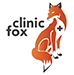
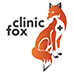
image fix

diff --git a/signature.html b/signature.html
@@ -69,17 +69,17 @@ Position
 </tr>
 <tr>
 <td style="font-size:10pt;">
-<span style="font-weight:700;">t: </span><a style="text-decoration:none; color:#000" href="tel:1-877-387-8114">1 877-387-8114 (office)</a>
+<span style="font-weight:700;">t: </span><a style="text-decoration:none !important; color:#000 !important">1 877-387-8114 (office)</a>
 </td>
 </tr>
 <tr>
 <td style="font-size:10pt;">
-<span style="font-weight:700;">t: </span><a style="text-decoration:none; color:#000">x xxx-xxx-xxxx (direct)</a>
+<span style="font-weight:700;">t: </span><a style="text-decoration:none !important; color:#000 !important">0 000-000-0000 (direct)</a>
 </td>
 </tr>
 <tr>
 <td style="font-size:10pt; padding-bottom:1em;">
-<span style="font-weight:700;">t: </span>1-604-229-0023 (fax)
+<span style="font-weight:700;">t: </span><a style="text-decoration:none !imporant; color:#000 !important">1 604-229-0023 (fax)</a>
 </td>
 </tr>
 <tr>
@@ -98,54 +98,57 @@ Lumioso Technology Services Ltd.
   		<table cellpadding="10px" valign="middle" cellspacing="0" border="0" align="left" width="375">
 		<![endif]-->
 			<tr height="74">
+				<td width="25%" style="max-width:74px;"><a href="http://lumioso.com">
 			<!--[if gte mso 9]>
 				<td width="74">
 					<![endif]-->
-				<td width="25%" style="max-width:74px;"><a href="http://lumioso.com">
+			<img class="image_fix" style="max-width:74px; line-height:74px; text-align:center;" src="img/lumioso.png" width="100%" alt="Lumioso" title="Lumioso" height="100%" />
 				<!--[if gte mso 9]>
-  				<img class="image_fix" src="img/lumioso.png" width="74" alt="Lumioso" title="Lumioso" height="26" />
+  				<img class="image_fix" src="img/lumioso.png" width="74" alt="Lumioso" title="Lumioso" height="74" />
 				<![endif]-->
-				<img class="image_fix" style="max-width:74px;" src="img/lumioso.png" width="100%" alt="Lumioso" title="Lumioso" height="26" />
 				</a>
 				</td>
 				<!--[if gte mso 9]>
 				</td>
 				<![endif]-->
+				<td width="25%">
 				<!--[if gte mso 9]>
 				<td width="74">
 					<![endif]-->
-				<td width="25%">
 				<a href="http://ontwyne.com/">
+				
+				<img class="image_fix" src="img/twyne.png" style="max-width:74px; line-height:74px; text-align:center;" width="100%" height="100%" alt="Twyne" title="Twyne" />
 				<!--[if gte mso 9]>
   				<img class="image_fix" src="img/twyne.png" width="74" alt="Twyne" title="Twyne" height="74" />
-				<![endif]-->
-				<img class="image_fix" src="img/twyne.png" style="max-width:74px;" width="100%" height="100%" alt="Twyne" title="Twyne" /></a>
+				<![endif]--></a>
 				</td>
 				<!--[if gte mso 9]>
 					</td>
 					<![endif]-->
+				<td width="25%">
 				<!--[if gte mso 9]>
 				<td width="74">
 					<![endif]-->
-				<td width="25%">
 				<a href="http://yellowhat.ca/">
+				
+				<img class="image_fix" src="img/yellow-hat.png" style="max-width:74px; line-height:30px; text-align:center;" width="100%" height="100%" alt="Yellow Hat" title="Yellow Hat" />
 				<!--[if gte mso 9]>
-  				<img class="image_fix" src="img/yellow-hat.png" width="74" alt="Yellow Hat" title="Yellow Hat" height="30" />
-				<![endif]-->
-				<img class="image_fix" src="img/yellow-hat.png" style="max-width:74px;" width="100%" height="30" alt="Yellow Hat" title="Yellow Hat" /></a>
+  				<img class="image_fix" src="img/yellow-hat.png" width="74" alt="Yellow Hat" title="Yellow Hat" height="74" />
+				<![endif]--></a>
 				</td>
 				<!--[if gte mso 9]>
 					</td>
 					<![endif]-->
+				<td width="25%">
 				<!--[if gte mso 9]>
 				<td width="74">
 					<![endif]-->
-				<td width="25%">
 				<a href="http://clinicfox.com/">
+				
+				<img class="image_fix" src="img/clinic-fox.png" style="max-width:74px; line-height:75px; text-align:center;"  width="100%" height="100%" alt="Clinic Fox" title="Clinic Fox" />
 				<!--[if gte mso 9]>
   				<img class="image_fix" src="img/clinic-fox.png" width="74" alt="Clinic Fox" title="Clinic Fox" height="75" />
-				<![endif]-->
-				<img class="image_fix" src="img/clinic-fox.png" style="max-width:74px;"  width="100%" height="100%" alt="Clinic Fox" title="Clinic Fox" /></a>
+				<![endif]--></a>
 				</td>
 				<!--[if gte mso 9]>
 					</td>
@@ -153,12 +156,12 @@ Lumioso Technology Services Ltd.
 			</tr>
 			<tr>
 			<td colspan="4" style="font-family:'Helvetica Neue Light', Helvetica, sans-serif; font-size:7pt; font-style:italic;  padding:0; letter-spacing:1px;">
-This message is only intended for the use of the addressee and any other use is strictly unauthorized. Any opinions
-expressed herein do not necessarily reflect those of Lumioso Technology Services or its subsidiaries.</td></tr>
+This message is only intended for the use of the addressee and any other use is strictly unauthorized. Any opinionsexpressed herein do not necessarily reflect those of Lumioso Technology Services or its subsidiaries.</td></tr>
+</table> 
 				<!--[if gte mso 9]>
 </table>
 <![endif]-->
-	</table>  
+	 
 
 
 
